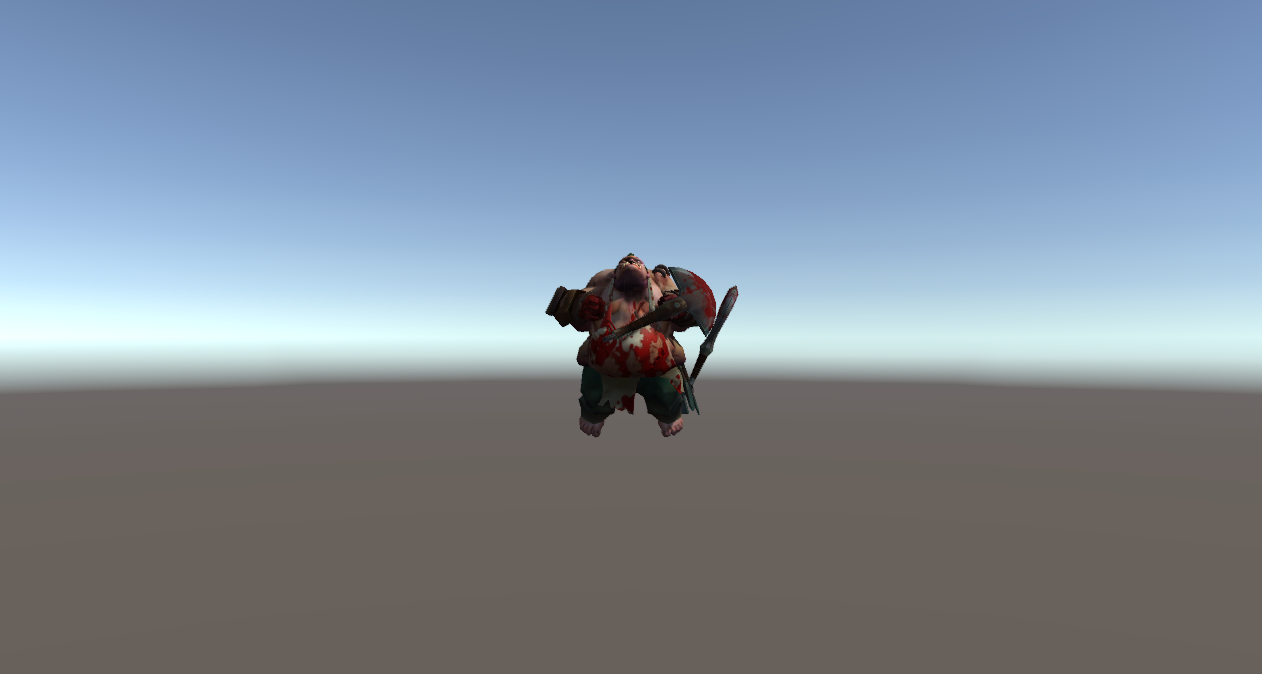
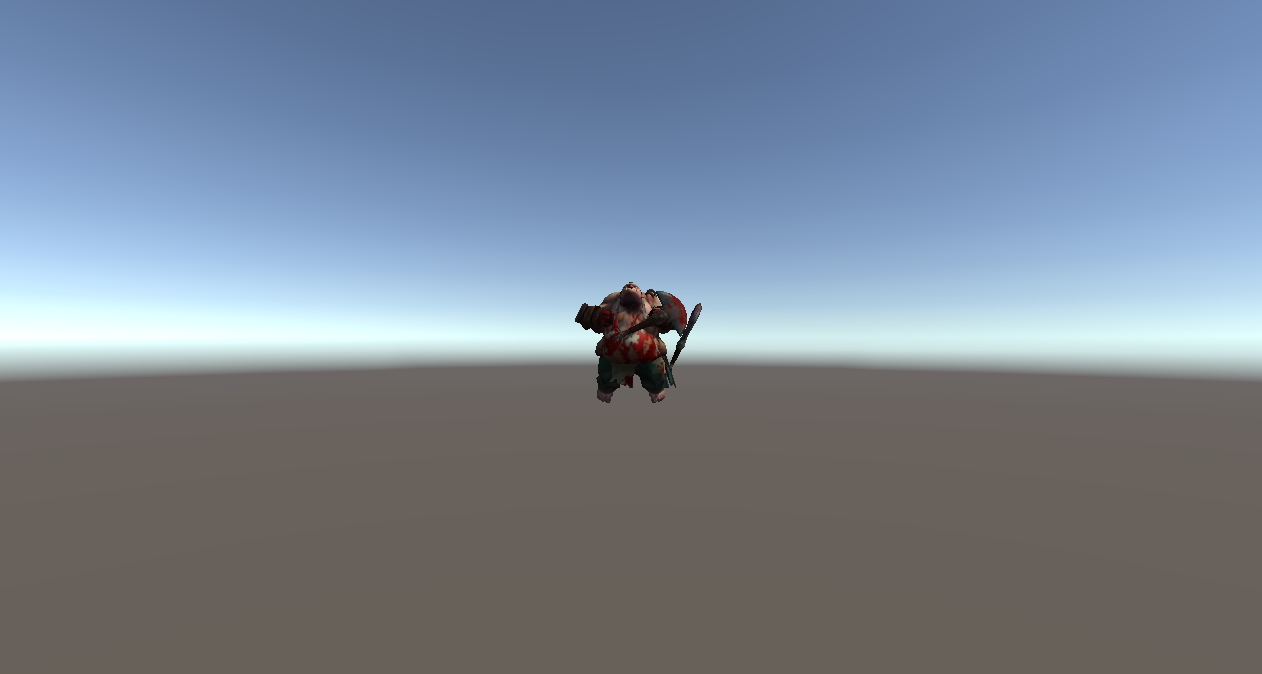
Add blank screen while keyframes are generated.

Changed region(s): [[0.0, 0.3739, 1.0, 0.6543]]

diff --git a/FireBoltUnity/Assets/FireBolt/scripts/ElPresidente.cs b/FireBoltUnity/Assets/FireBolt/scripts/ElPresidente.cs
@@ -448,6 +448,16 @@ public class ElPresidente : MonoBehaviour {
         // Toggle the canvas display off.
         canvas.enabled = false;
 
+        // Store the main camera's default settings.
+        CameraClearFlags defClearFlags = Camera.main.clearFlags;
+        Color defBackgroundColor = Camera.main.backgroundColor;
+        int defCullingMask = Camera.main.cullingMask;
+
+        // Make the main camera display a black screen while the system iterates through the keyframes.
+        Camera.main.clearFlags = CameraClearFlags.SolidColor;
+        Camera.main.backgroundColor = Color.black;
+        Camera.main.cullingMask = 0;
+
         // Loop through discourse time at intervals of 20%.
         for (float i = 0; i < 100; i = i + 20)
         {
@@ -457,9 +467,37 @@ public class ElPresidente : MonoBehaviour {
             // Allow the frame to process.
             yield return new WaitForEndOfFrame();
 
-            // Save the current frame as an image.
-            Application.CaptureScreenshot(@"Assets/screens/" + i + ".png");
+            // Initialize the render texture and texture 2D.
+            RenderTexture rt = new RenderTexture(Screen.width, Screen.height, 24);
+            Texture2D screenShot = new Texture2D(Screen.width, Screen.height, TextureFormat.RGB24, false);
+
+            // Create a new camera object and position it where the main camera is.
+            GameObject testCameraGO = new GameObject();
+            testCameraGO.transform.position = Camera.main.transform.position;
+            testCameraGO.transform.rotation = Camera.main.transform.rotation;
+            Camera test = testCameraGO.AddComponent<Camera>();
+
+            // Render the texture.
+            test.targetTexture = rt;
+            test.Render();
+
+            // Read the rendered texture into the texture 2D and reset the camera.
+            RenderTexture.active = rt;
+            screenShot.ReadPixels(new Rect(0, 0, Screen.width, Screen.height), 0, 0);
+            test.targetTexture = null;
+            RenderTexture.active = null;
+            Destroy(rt);
+            Destroy(testCameraGO);
+
+            // Save the texture 2D as a PNG.
+            byte[] bytes = screenShot.EncodeToPNG();
+            File.WriteAllBytes(@"Assets/screens/" + i + ".png", bytes);
         }
+
+        // Reset the main camera to its default configuration.
+        Camera.main.clearFlags = defClearFlags;
+        Camera.main.backgroundColor = defBackgroundColor;
+        Camera.main.cullingMask = defCullingMask;
 
         // Toggle the canvas display back on.
         canvas.enabled = true;
